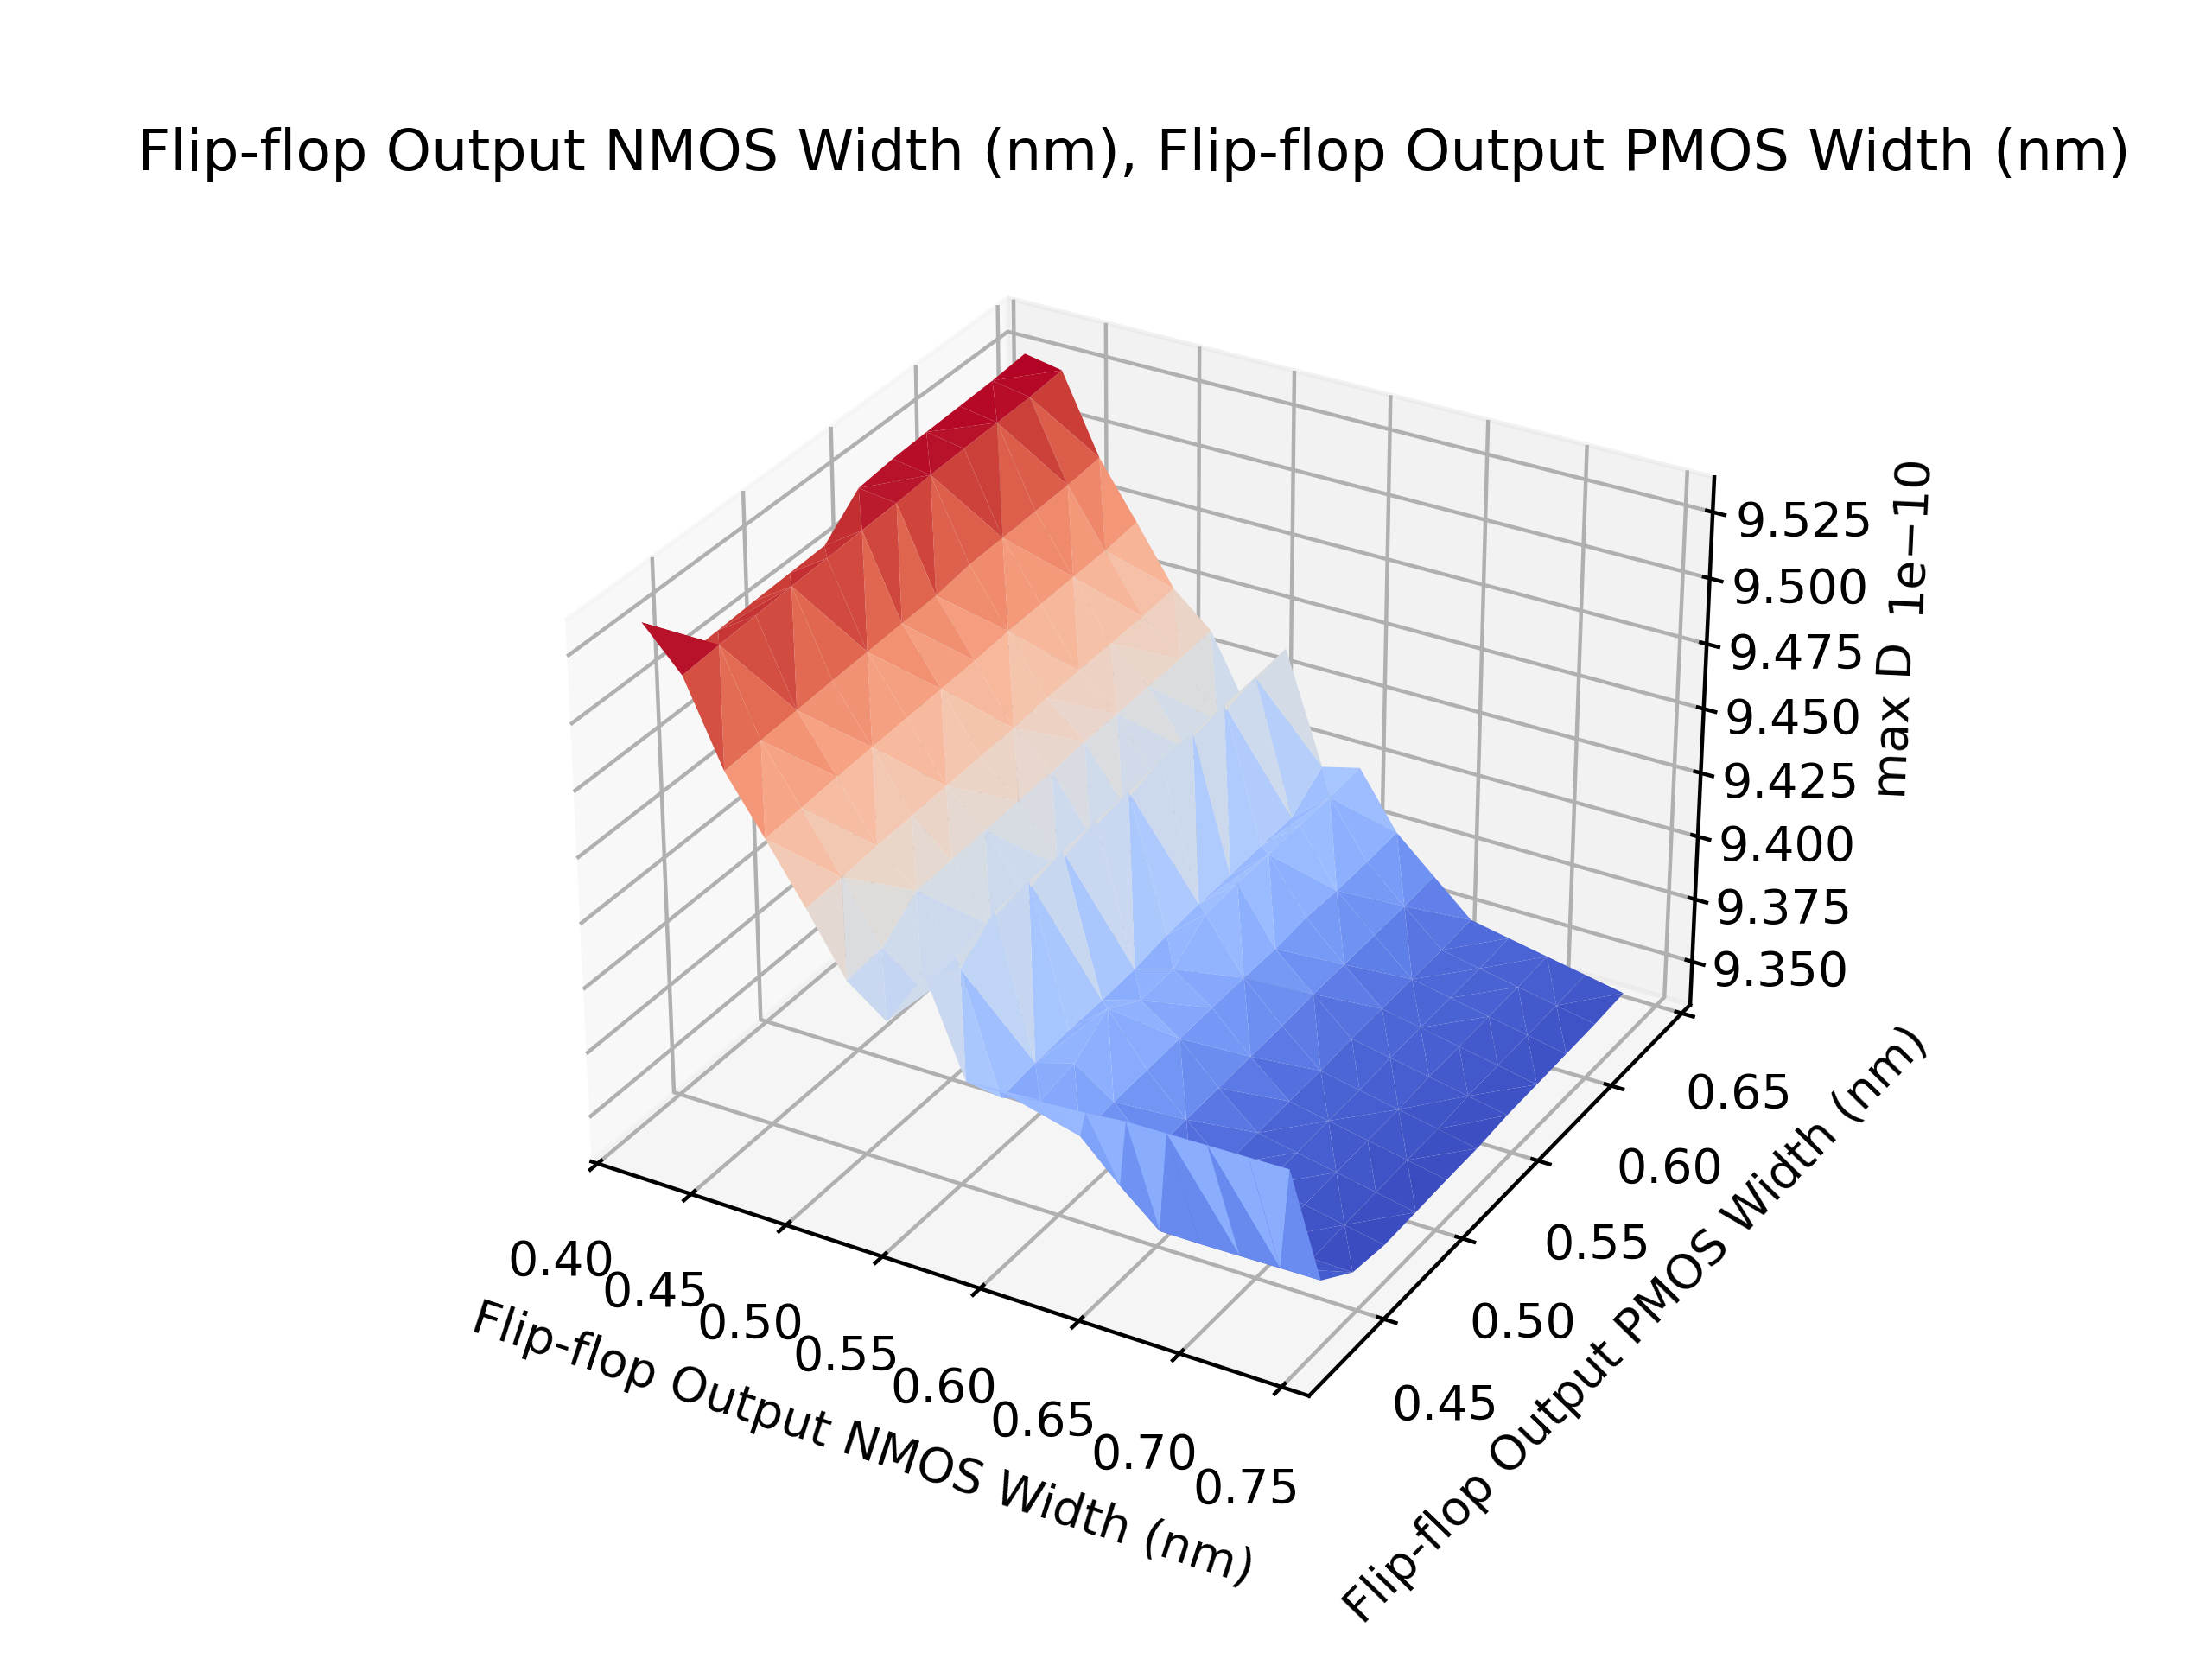
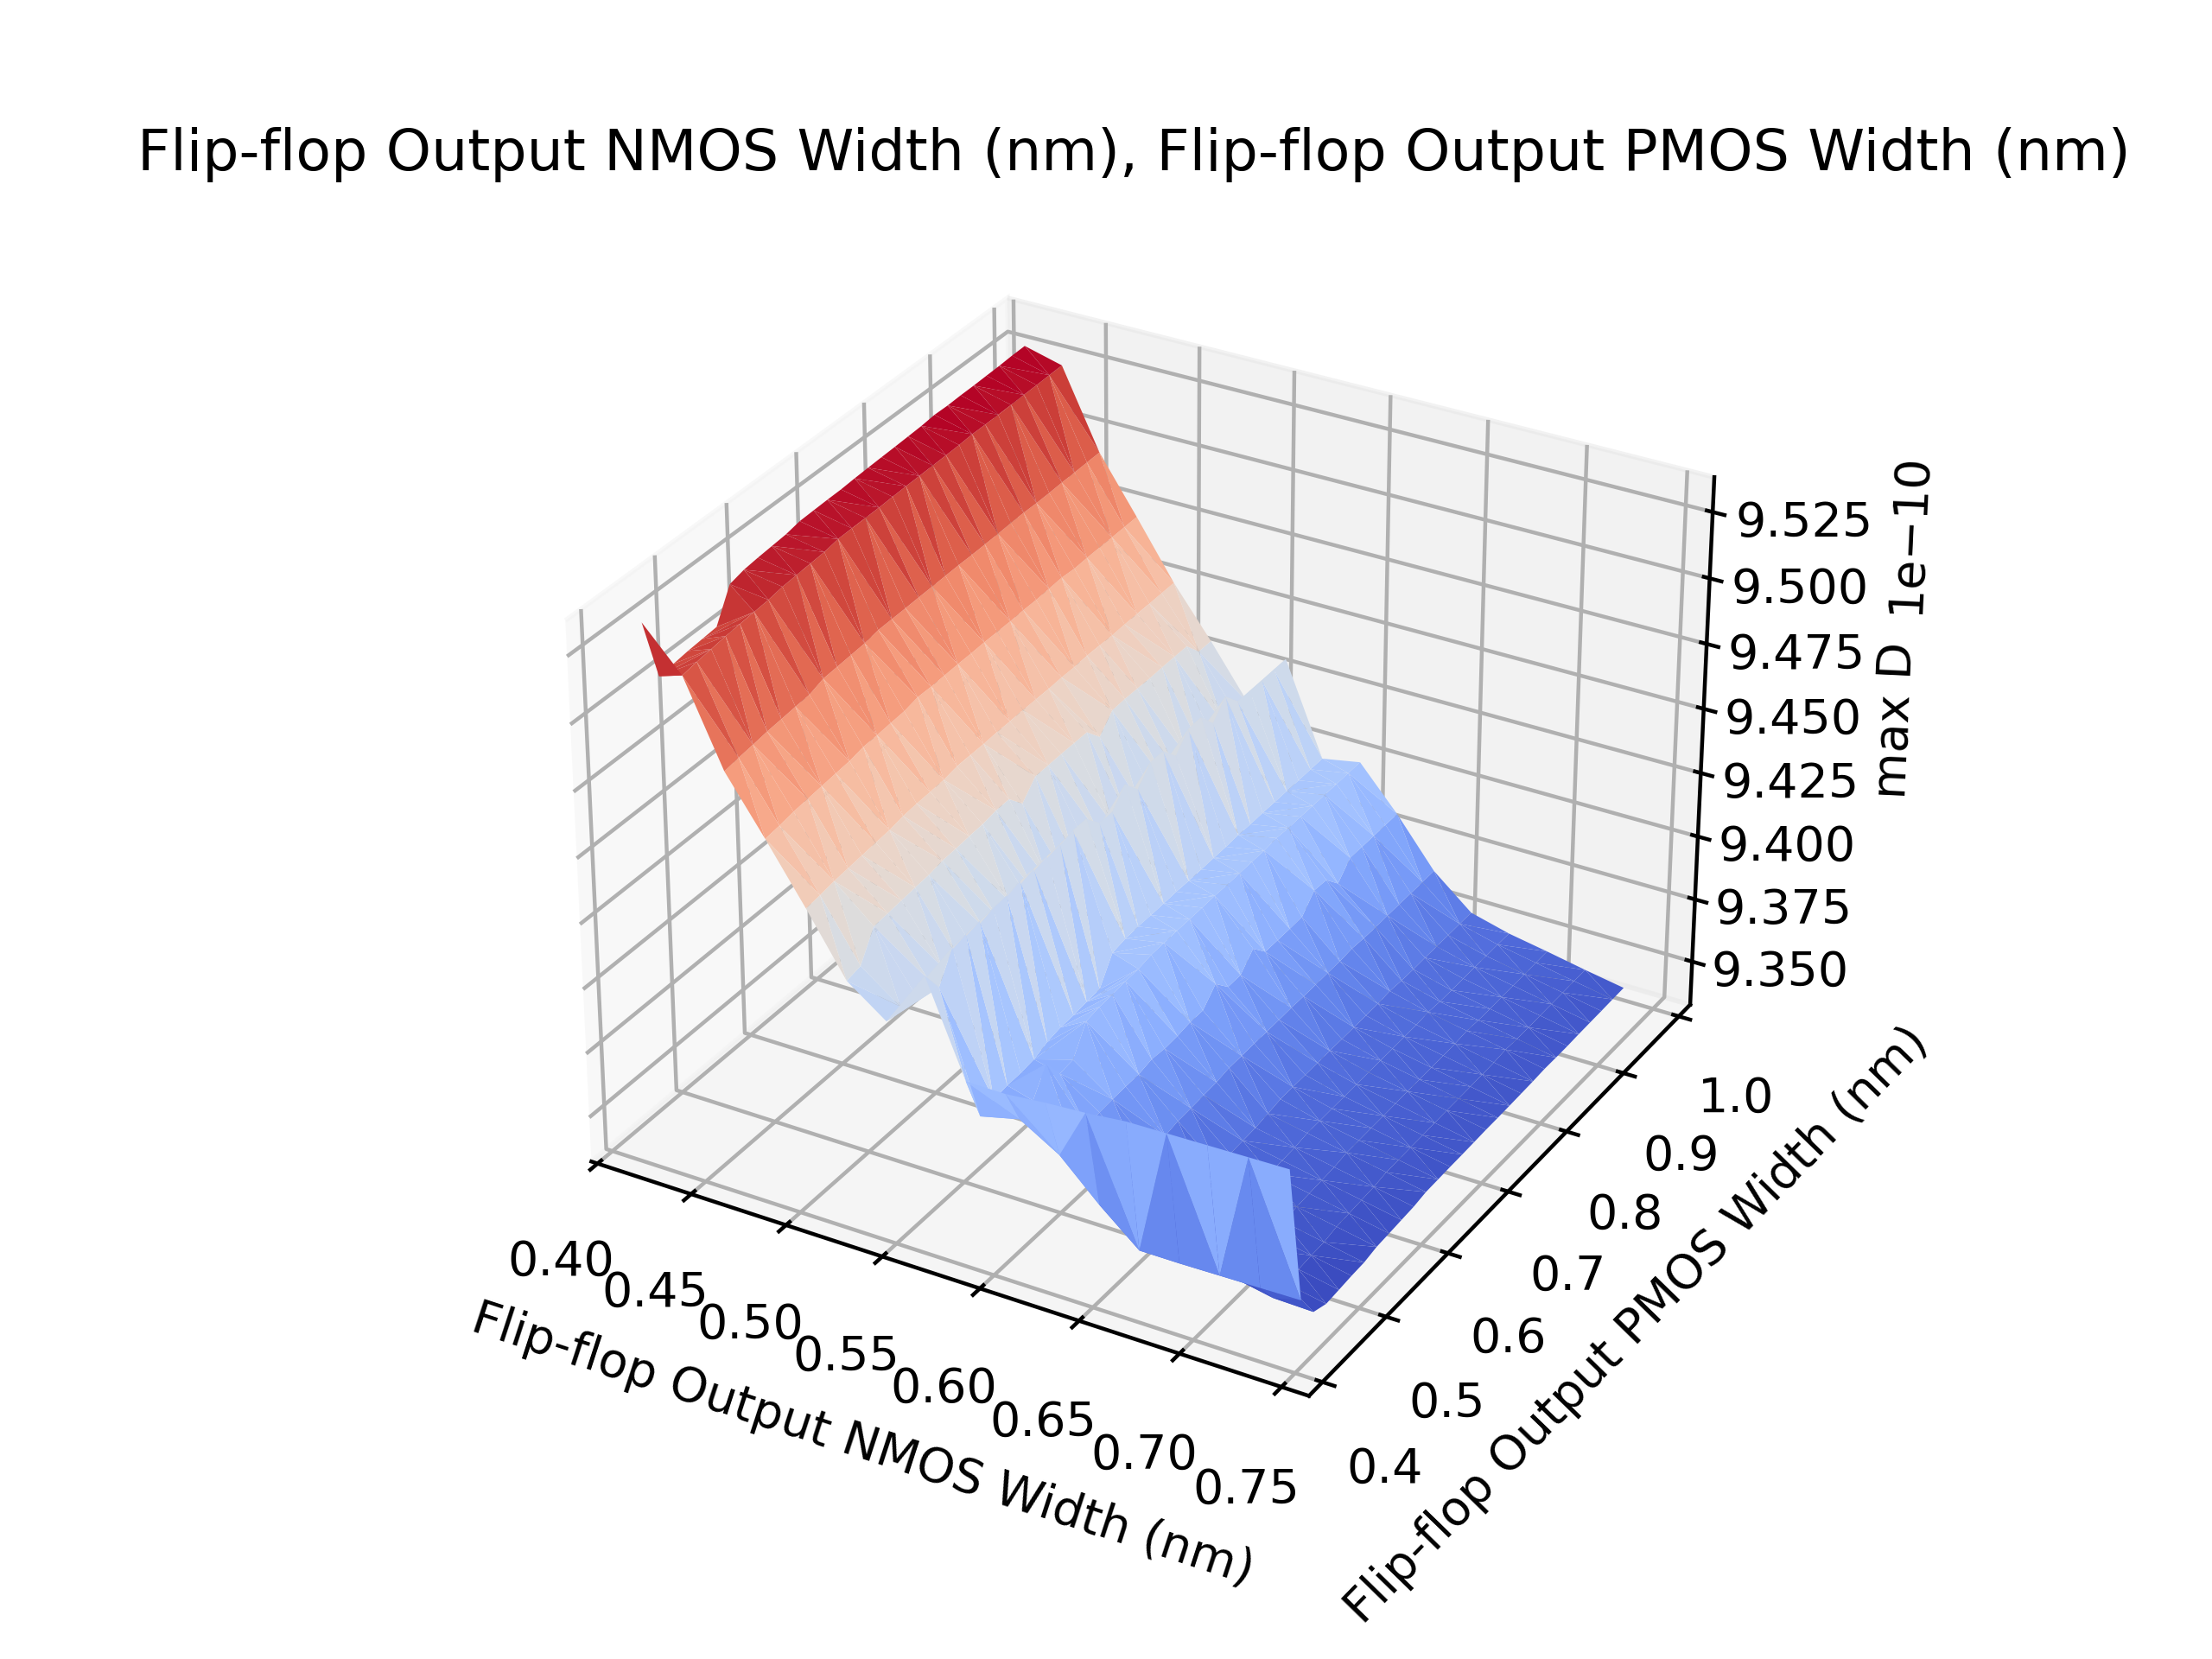
updates to experiments

diff --git a/experiments/lut_analysis_2026/LutB/plot.py b/experiments/lut_analysis_2026/LutB/plot.py
@@ -1,24 +1,41 @@
 #!/usr/bin/env python3
 
+import re
+import argparse
 import matplotlib.pyplot as plt
+from mpl_toolkits.mplot3d import Axes3D
 import pandas as pd
 import sys
 from pathlib import Path
 
 from collections import namedtuple
+from collections import defaultdict
 
-subfolder = sys.argv[1] if len(sys.argv) > 1 else None
+parser = argparse.ArgumentParser()
+parser.add_argument('subfolder', nargs='?', default=None)
+parser.add_argument('--x', default=None, help='x-axis source')
+parser.add_argument('--x-label', default=None, help='x-axis label')
+parser.add_argument('--y', default=None, help='y-axis source')
+parser.add_argument('--y-label', default=None, help='y-axis label')
+parser.add_argument('--surface-plot', default=None, action='store')
+args = parser.parse_args()
 
+SUB_DIR_RE = re.compile(r'run_(\d+)_(\d+)')
+
+data = pd.DataFrame()
+all_columns = []
+
+subfolder = args.subfolder
 in_csv_file = Path('lut_test.sp.csv')
+if in_csv_file.exists():
+  complete_csv_path = Path(subfolder) / in_csv_file if subfolder else in_csv_file
 
-complete_csv_path = Path(subfolder) / in_csv_file if subfolder else in_csv_file
+  if not complete_csv_path.exists():
+    print('error: file not found:', complete_csv_path)
+    sys.exit(1)
 
-if not complete_csv_path.exists():
-  print('error: file not found:', complete_csv_path)
-  sys.exit(1)
-
-data = pd.read_csv(complete_csv_path)
-all_columns = data.columns
+  data = pd.read_csv(complete_csv_path)
+  all_columns = data.columns
 
 LutOrder = namedtuple('LutOrder', 'mux_order name scan_order')
 
@@ -334,8 +351,159 @@ def plot_fake_lut_x1_debug():
     plt.xlim(0, 1e-8)
     plt.savefig(get_plot_file_name(), dpi=300)
 
+def to_number(with_units):
+  number = None
+  scale = 1e0
+  if with_units.endswith('m'):
+    number = int(with_units[:-1])
+    # TODO(aryap): Ok but actually, here, because of the spectre/Xyce scaling
+    # issues, 'm' means 1e-6 also.
+    scale = 1e-3
+  elif with_units.endswith('n'):
+    number = int(with_units[:-1])
+    scale = 1e-9
+  elif with_units.endswith('u'):
+    number = int(with_units[:-1])
+    scale = 1e-6
+  else:
+    number = int(with_units)
+  return number*scale
+
+def plot_max_d_vs_xy_merged_runs(
+    csv_file, x_source, x_label, y_source, y_label):
+  in_csv_file = Path(csv_file)
+  data = pd.read_csv(in_csv_file)
+
+  # Maybe this can be split into two separate dataframes and then merged in the
+  # pandas-blessed way? Central problem is merging on multiple indices:
+  # (sub_dir, x label, y label).
+
+  runs = defaultdict(lambda: defaultdict(lambda: defaultdict(lambda: None)))
+
+  for _, row in data.iterrows():
+    sub_dir = row['sub_dir']
+    if not isinstance(sub_dir, str):
+      continue
+    matches = SUB_DIR_RE.match(sub_dir)
+    key = matches.group(1)
+    x = to_number(row[x_source])
+    y = to_number(row[y_source])
+    d_cols = [c for c in data.columns if c in [f'D{i}' for i in range(16)]]
+    z = max(row[d_cols])
+
+    if runs[key][x][y] is None:
+      runs[key][x][y] = z
+    else:
+      runs[key][x][y] = max(z, runs[key][x][y])
+
+  merged = pd.DataFrame.from_records(
+      [(k, x, y, z)
+      for k, inner in runs.items()
+      for x, innner in inner.items()
+      for y, z in innner.items()],
+      columns=['sub_dir', x_source, y_source, 'z'])
+
+  z = merged['z'] * 1e12
+  x = merged[x_source]
+  y = merged[y_source]
+
+  print(merged.sort_values(by=['z'], axis=0, ascending=True))
+
+  fig = plt.figure()
+  ax = fig.add_subplot(111, projection='3d')
+  ax.plot_trisurf(x, y, z, cmap='coolwarm')
+  #ax.scatter(x, y, z)
+  plt.title(f'{x_label}, {y_label}')
+  ax.set_xlabel(x_label, fontsize=10)
+  ax.set_ylabel(y_label, fontsize=10)
+  ax.set_zlabel('Read delay (ps)')
+  #plt.show()
+  plt.savefig(get_plot_file_name(), dpi=400)
+
+def plot_pd_vs_xy_merged_runs(
+    csv_file, x_source, x_label, y_source, y_label):
+  in_csv_file = Path(csv_file)
+  data = pd.read_csv(in_csv_file)
+
+  # Maybe this can be split into two separate dataframes and then merged in the
+  # pandas-blessed way? Central problem is merging on multiple indices:
+  # (sub_dir, x label, y label).
+
+  runs = defaultdict(lambda: defaultdict(lambda: defaultdict(lambda: None)))
+
+  for _, row in data.iterrows():
+    sub_dir = row['sub_dir']
+    if not isinstance(sub_dir, str):
+      continue
+    matches = SUB_DIR_RE.match(sub_dir)
+    key = matches.group(1)
+    x = to_number(row[x_source])
+    y = to_number(row[y_source])
+    d_cols = [c for c in data.columns if c in [f'D{i}' for i in range(16)]]
+    z = max(row[d_cols])
+    p = -1 * row['ITEST'] * 1.8  # average power during test, in Watts
+
+    if runs[key][x][y] is None:
+      runs[key][x][y] = z * p
+    else:
+      runs[key][x][y] = max(z * p, runs[key][x][y])
+
+  merged = pd.DataFrame.from_records(
+      [(k, x, y, z)
+      for k, inner in runs.items()
+      for x, innner in inner.items()
+      for y, z in innner.items()],
+      columns=['sub_dir', x_source, y_source, 'z'])
+
+  z = merged['z'] / max(merged['z'])
+  x = merged[x_source]
+  y = merged[y_source]
+
+  print(merged.sort_values(by=['z'], axis=0, ascending=True))
+
+  fig = plt.figure()
+  ax = fig.add_subplot(111, projection='3d')
+  ax.plot_trisurf(x, y, z, cmap='coolwarm')
+  #ax.scatter(x, y, z)
+  plt.title(f'{x_label}, {y_label}')
+  ax.set_xlabel(x_label, fontsize=10)
+  ax.set_ylabel(y_label, fontsize=10)
+  ax.set_zlabel('Norm. Power-Delay Product')
+  #plt.show()
+  plt.savefig(get_plot_file_name(), dpi=400)
+
+def plot_max_d_vs_xy(
+    csv_file, suffix, x_source, x_label, y_source, y_label):
+  in_csv_file = Path(csv_file)
+  raw_data = pd.read_csv(in_csv_file)
+  data = raw_data.loc[lambda df: df['sub_dir'].apply(
+    lambda x: isinstance(x, str) and x.endswith(suffix))]
+
+  d_cols = [c for c in data.columns if c in [f'D{i}' for i in range(16)]]
+  z = data[d_cols].max(axis=1)
+  x = data[x_source].apply(to_number)
+  y = data[y_source].apply(to_number)
+
+  fig = plt.figure()
+  ax = fig.add_subplot(111, projection='3d')
+  ax.plot_trisurf(x, y, z, cmap='coolwarm')
+  #ax.scatter(x, y, z)
+  ax.set_xlabel(x_label)
+  ax.set_ylabel(y_label)
+  ax.set_zlabel('max delay (ps)')
+  plt.savefig(get_plot_file_name(), dpi=300)
+
+
 if __name__ == '__main__':
-    #print(data.columns.values)
+  #print(data.columns.values)
+  if args.surface_plot:
+    #plot_max_d_vs_xy(args.surface_plot, '0', args.x, args.x_label, args.y, args.y_label)
+    #plot_max_d_vs_xy(args.surface_plot, '1', args.x, args.x_label, args.y, args.y_label)
+    plot_max_d_vs_xy_merged_runs(
+        args.surface_plot, args.x, args.x_label, args.y, args.y_label)
+    plot_pd_vs_xy_merged_runs(
+        args.surface_plot, args.x, args.x_label, args.y, args.y_label)
+  else:
     plot_register_scan_chain_load()
     plot_lut_readout()
     plot_input_buffers()

diff --git a/experiments/lut_analysis_2026/LutB/sweep_util.py b/experiments/lut_analysis_2026/LutB/sweep_util.py
@@ -1,3 +1,4 @@
+#!/usr/bin/env python3
 from pathlib import Path
 import glob
 import shutil
@@ -38,32 +39,30 @@ input_pattern + '''0)
 
 
 def generate_all_params():
-  for s1s2_nfet_width in range(490, 550, 20):
-    for s1s2_pfet_width in range(900, 1000, 40):
-      for s0_nfet_width in range(420, 660, 20):
-        for s0_pfet_width in range(400, 800, 40):
-          for mux_nfet_width in range(460, 700, 20):
-            for mux_pfet_width in range(420, 700, 20):
-              for reg_out_nfet_width in range(420, 760, 20):
-                for reg_out_pfet_width in range(420, 660, 20):
-                  params = {
-                      's1s2_nfet_width': f'{s1s2_nfet_width}m',
-                      's1s2_pfet_width': f'{s1s2_pfet_width}m',
-                      's0_nfet_width': f'{s0_nfet_width}m',
-                      's0_pfet_width': f'{s0_pfet_width}m',
-                      'mux_nfet_width': f'{mux_nfet_width}m',
-                      'mux_pfet_width': f'{mux_pfet_width}m',
-                      'reg_out_nfet_width': f'{reg_out_nfet_width}m',
-                      'reg_out_pfet_width': f'{reg_out_pfet_width}m',
-                  }
-                  yield params
+  for mux_nfet_width in [640]:
+    for mux_pfet_width in [480]:
+      for reg_out_nfet_width in [650]:
+        for reg_out_pfet_width in [1000]:
+          for s0s1_nfet_width in range(460,1000,20):
+            for s0s1_pfet_width in range(460, 1600 - s0s1_nfet_width, 20):
+              params = {
+                  #'s2_nfet_width': f'{s2_nfet_width}m',
+                  #'s2_pfet_width': f'{s2_pfet_width}m',
+                  's0s1_nfet_width': f'{s0s1_nfet_width}m',
+                  's0s1_pfet_width': f'{s0s1_pfet_width}m',
+                  'mux_nfet_width': f'{mux_nfet_width}m',
+                  'mux_pfet_width': f'{mux_pfet_width}m',
+                  'reg_out_nfet_width': f'{reg_out_nfet_width}m',
+                  'reg_out_pfet_width': f'{reg_out_pfet_width}m',
+              }
+              yield params
 
 def generate_test_params():
   params = {
-      's1s2_nfet_width': '510m',
-      's1s2_pfet_width': '900m',
-      's0_nfet_width': '440m',
-      's0_pfet_width': '760m',
+      's2_nfet_width': '510m',
+      's2_pfet_width': '900m',
+      's0s1_nfet_width': '440m',
+      's0s1_pfet_width': '760m',
       'mux_nfet_width': '580m',
       'mux_pfet_width': '460m',
       'reg_out_nfet_width': '640m',
@@ -72,7 +71,7 @@ def generate_test_params():
   yield params
 
 
-def main(param_maker=generate_test_params, patterns=PATTERNS):
+def main(param_maker=generate_all_params, patterns=PATTERNS):
   commands_path = Path('commands.sh')
   param_count = 0
   with open(commands_path, 'w') as c:

diff --git a/experiments/lut_analysis_2026/LutB/librelane/calibre-pex/README.md b/experiments/lut_analysis_2026/LutB/librelane/calibre-pex/README.md
@@ -20,3 +20,7 @@ Then to simulate with Spectre, I had to:
   divide by 1E6
 - replace the PEX models with the Calibre ones (nfet_01v8, pfet_01v8,
   pfet_01v8_hvt)
+
+```
+./bigspicy.py --import --spice_header ~/src/pdk-root/share/pdk/sky130A/libs.ref/sky130_fd_pr/spice/sky130_fd_pr__pfet_01v8_hvt.pm3.spice --spice_header ~/src/pdk-root/share/pdk/sky130A/libs.ref/sky130_fd_pr/spice/sky130_fd_pr__nfet_01v8.pm3.spice --spice_header ~/src/pdk-root/share/pdk/sky130A/libs.ref/sky130_fd_pr/spice/sky130_fd_pr__pfet_01v8.pm3.spice --spice /tmp/clb.spice --spice ~/src/pdk-root/share/pdk/sky130A/libs.ref/sky130_fd_sc_hd/spice/sky130_fd_sc_hd.spice  --flatten --top clb --dump_spice clb.dump.sp
+```